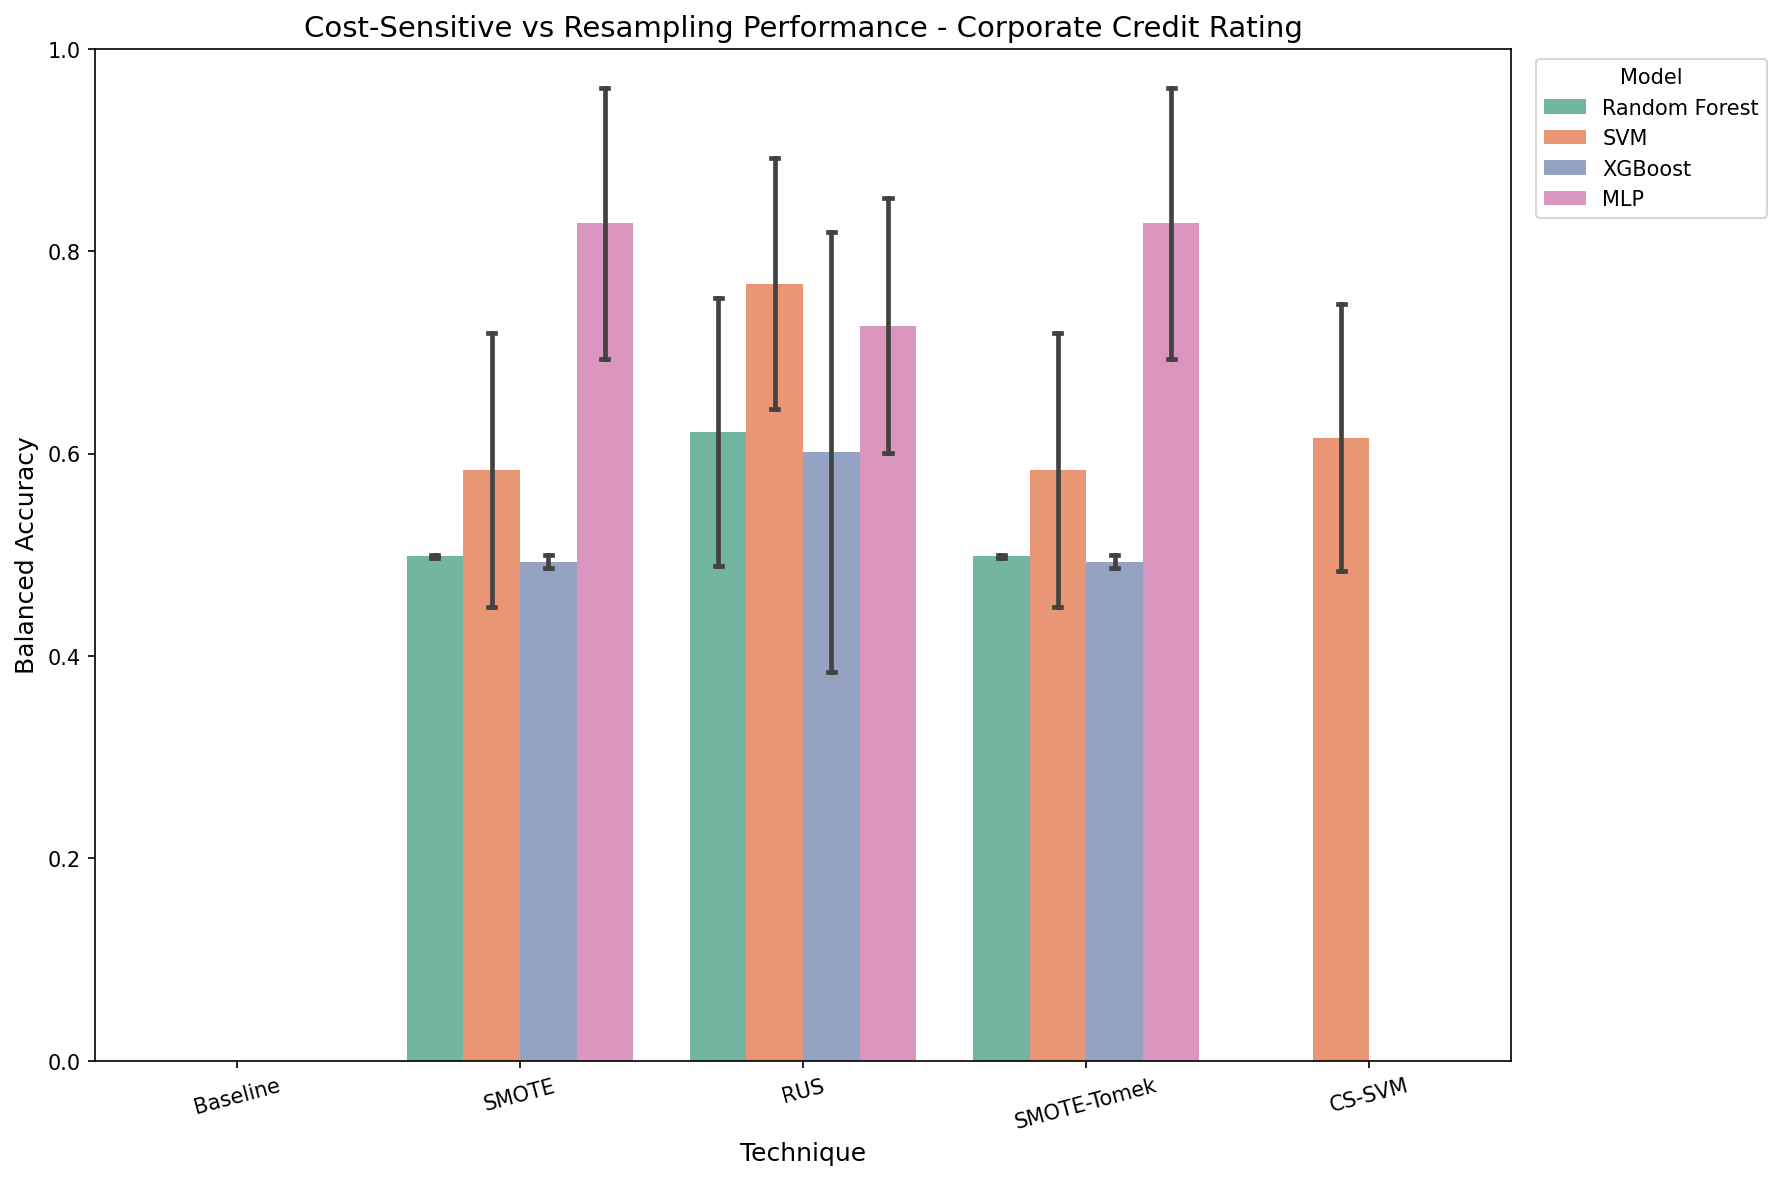
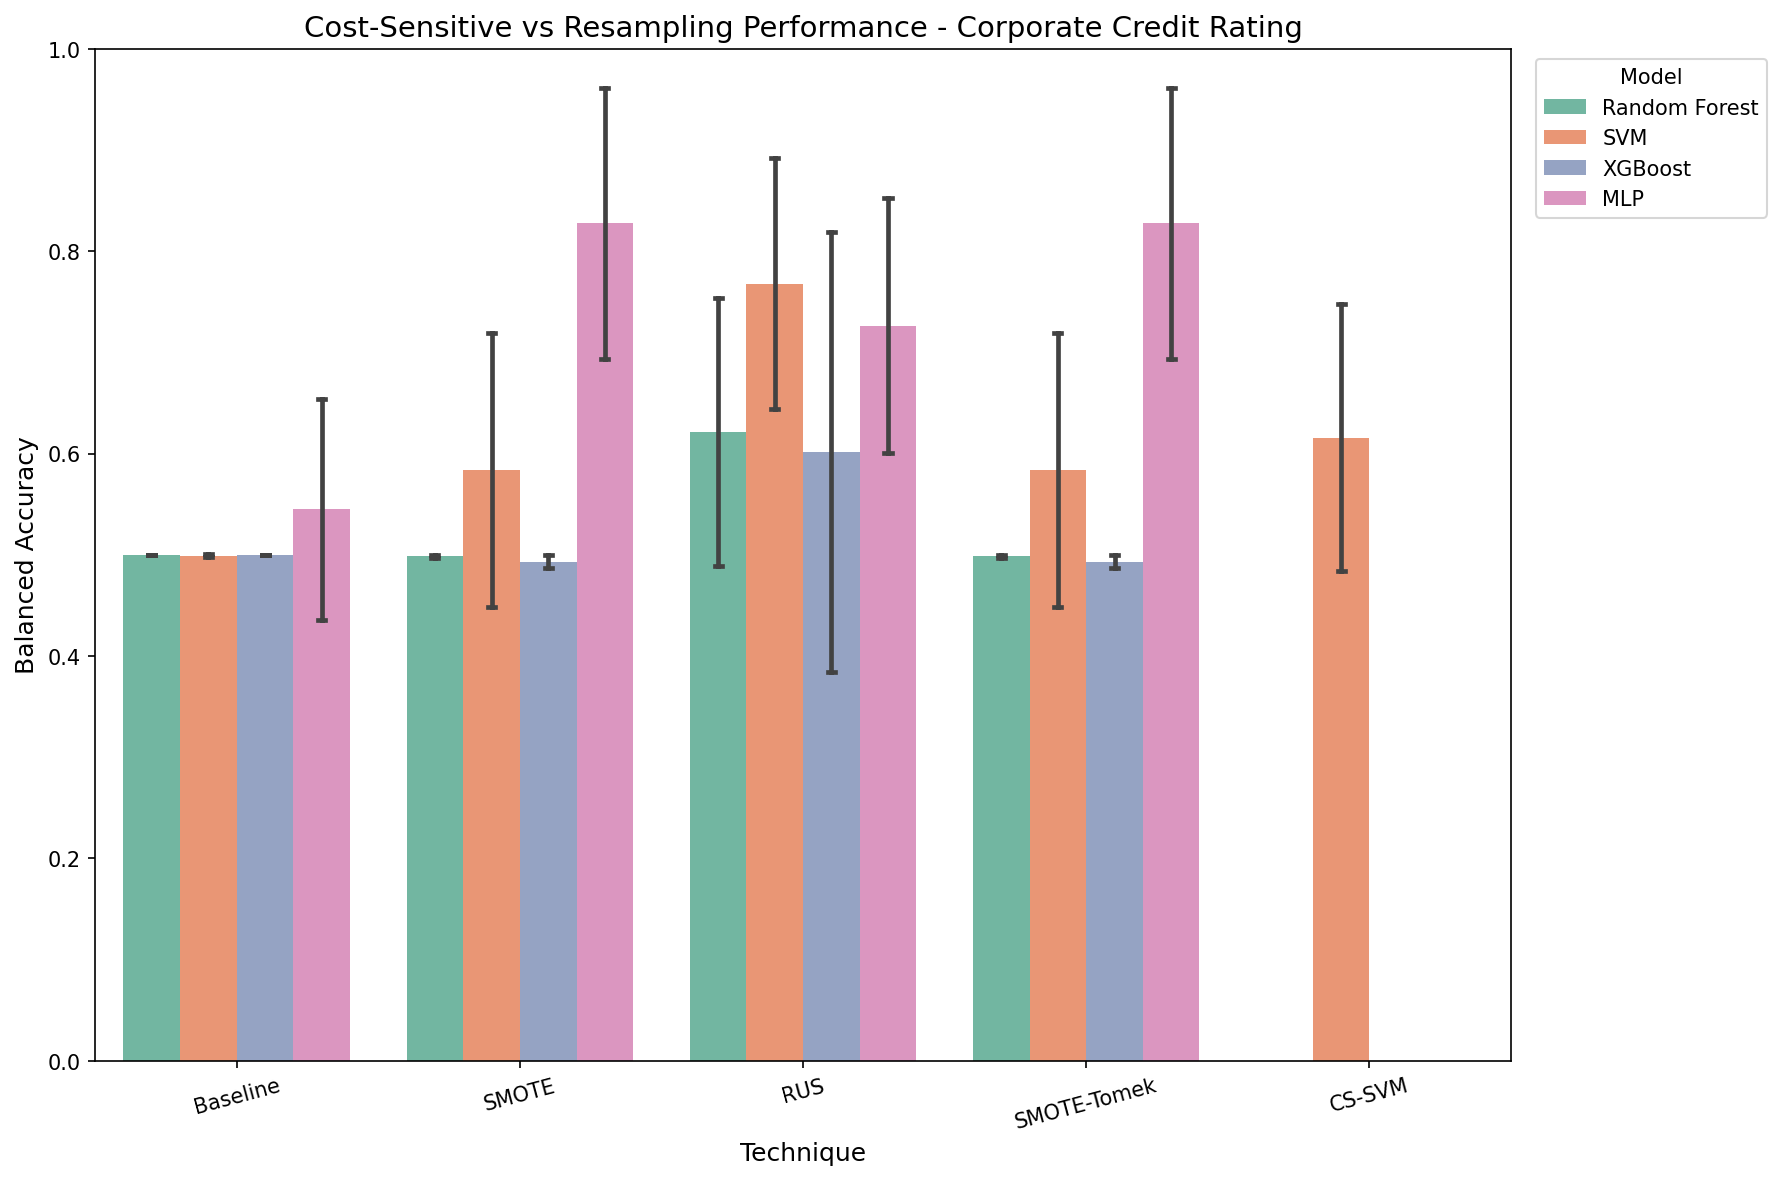
incluir barras para acurácia dos modelos linha de base

Changed region(s): [[0.0617, 0.4271, 0.216, 0.9153], [0.1543, 0.3356, 0.1852, 0.3661]]

diff --git a/experimentos/reports/pt_BR/corporate_credit_rating/summary_table.tex b/experimentos/reports/pt_BR/corporate_credit_rating/summary_table.tex
@@ -12,12 +12,12 @@ XGBoost & RUS & 0.6013 (0.2175) & 0.4355 (0.4041) & 0.0167 (0.0166) & 0.0086 (0.
 SVM & SMOTE & 0.5839 (0.1350) & 0.2775 (0.3801) & 0.0413 (0.0669) & 0.0237 (0.0394) & 0.2000 (0.2739) & 0.9677 (0.0161) \\
 SVM & SMOTE-Tomek & 0.5839 (0.1350) & 0.2775 (0.3801) & 0.0413 (0.0669) & 0.0237 (0.0394) & 0.2000 (0.2739) & 0.9677 (0.0161) \\
 MLP & Linha de Base & 0.5449 (0.1091) & 0.1400 (0.3131) & 0.0267 (0.0596) & 0.0154 (0.0344) & 0.1000 (0.2236) & 0.9898 (0.0055) \\
-Random Forest & Linha de Base & 0.5000 (0.0000) & 0.0000 (0.0000) & 0.0000 (0.0000) & 0.0000 (0.0000) & 0.0000 (0.0000) & 1.0000 (0.0000) \\
 XGBoost & Linha de Base & 0.5000 (0.0000) & 0.0000 (0.0000) & 0.0000 (0.0000) & 0.0000 (0.0000) & 0.0000 (0.0000) & 1.0000 (0.0000) \\
+Random Forest & Linha de Base & 0.5000 (0.0000) & 0.0000 (0.0000) & 0.0000 (0.0000) & 0.0000 (0.0000) & 0.0000 (0.0000) & 1.0000 (0.0000) \\
 SVM & Linha de Base & 0.4990 (0.0015) & 0.0000 (0.0000) & 0.0000 (0.0000) & 0.0000 (0.0000) & 0.0000 (0.0000) & 0.9980 (0.0029) \\
-Random Forest & SMOTE-Tomek & 0.4985 (0.0014) & 0.0000 (0.0000) & 0.0000 (0.0000) & 0.0000 (0.0000) & 0.0000 (0.0000) & 0.9970 (0.0027) \\
 Random Forest & SMOTE & 0.4985 (0.0014) & 0.0000 (0.0000) & 0.0000 (0.0000) & 0.0000 (0.0000) & 0.0000 (0.0000) & 0.9970 (0.0027) \\
-XGBoost & SMOTE-Tomek & 0.4934 (0.0065) & 0.0000 (0.0000) & 0.0000 (0.0000) & 0.0000 (0.0000) & 0.0000 (0.0000) & 0.9868 (0.0129) \\
+Random Forest & SMOTE-Tomek & 0.4985 (0.0014) & 0.0000 (0.0000) & 0.0000 (0.0000) & 0.0000 (0.0000) & 0.0000 (0.0000) & 0.9970 (0.0027) \\
 XGBoost & SMOTE & 0.4934 (0.0065) & 0.0000 (0.0000) & 0.0000 (0.0000) & 0.0000 (0.0000) & 0.0000 (0.0000) & 0.9868 (0.0129) \\
+XGBoost & SMOTE-Tomek & 0.4934 (0.0065) & 0.0000 (0.0000) & 0.0000 (0.0000) & 0.0000 (0.0000) & 0.0000 (0.0000) & 0.9868 (0.0129) \\
 \bottomrule
 \end{tabular}

diff --git a/experimentos/reports/en_US/corporate_credit_rating/summary_table.tex b/experimentos/reports/en_US/corporate_credit_rating/summary_table.tex
@@ -9,8 +9,8 @@ MLP & RUS & 0.7263 (0.1258) & 0.7090 (0.1284) & 0.0211 (0.0115) & 0.0108 (0.0059
 Random Forest & RUS & 0.6217 (0.1323) & 0.4104 (0.3747) & 0.0317 (0.0327) & 0.0168 (0.0176) & 0.3000 (0.2739) & 0.9433 (0.0261) \\
 SVM & CS-SVM & 0.6156 (0.1318) & 0.4071 (0.3718) & 0.0305 (0.0371) & 0.0163 (0.0204) & 0.3000 (0.2739) & 0.9311 (0.0467) \\
 XGBoost & RUS & 0.6013 (0.2175) & 0.4355 (0.4041) & 0.0167 (0.0166) & 0.0086 (0.0086) & 0.4000 (0.4183) & 0.8026 (0.1276) \\
-SVM & SMOTE & 0.5839 (0.1350) & 0.2775 (0.3801) & 0.0413 (0.0669) & 0.0237 (0.0394) & 0.2000 (0.2739) & 0.9677 (0.0161) \\
 SVM & SMOTE-Tomek & 0.5839 (0.1350) & 0.2775 (0.3801) & 0.0413 (0.0669) & 0.0237 (0.0394) & 0.2000 (0.2739) & 0.9677 (0.0161) \\
+SVM & SMOTE & 0.5839 (0.1350) & 0.2775 (0.3801) & 0.0413 (0.0669) & 0.0237 (0.0394) & 0.2000 (0.2739) & 0.9677 (0.0161) \\
 MLP & Baseline & 0.5449 (0.1091) & 0.1400 (0.3131) & 0.0267 (0.0596) & 0.0154 (0.0344) & 0.1000 (0.2236) & 0.9898 (0.0055) \\
 Random Forest & Baseline & 0.5000 (0.0000) & 0.0000 (0.0000) & 0.0000 (0.0000) & 0.0000 (0.0000) & 0.0000 (0.0000) & 1.0000 (0.0000) \\
 XGBoost & Baseline & 0.5000 (0.0000) & 0.0000 (0.0000) & 0.0000 (0.0000) & 0.0000 (0.0000) & 0.0000 (0.0000) & 1.0000 (0.0000) \\

diff --git a/experimentos/experiments/pipelines/analysis/tasks/generation.py b/experimentos/experiments/pipelines/analysis/tasks/generation.py
@@ -454,6 +454,7 @@ def create_imbalance_impact_task(metric: Metric = Metric.BALANCED_ACCURACY) -> A
 # Cost-sensitive techniques for comparison analysis
 _COST_SENSITIVE_TECHNIQUES = {Technique.CS_SVM}
 _RESAMPLING_TECHNIQUES = {
+    Technique.BASELINE,
     Technique.SMOTE,
     Technique.RANDOM_UNDER_SAMPLING,
     Technique.SMOTE_TOMEK,
@@ -467,8 +468,8 @@ def generate_cs_vs_resampling_plot(
     """Generate a bar plot comparing cost-sensitive vs resampling techniques.
 
     Creates a grouped bar chart showing balanced accuracy performance for
-    cost-sensitive methods (CS-SVM) vs resampling methods
-    (SMOTE, RUS, SMOTE-Tomek).
+    cost-sensitive methods (CS-SVM) vs baseline/resampling methods
+    (Baseline, SMOTE, RUS, SMOTE-Tomek).
 
     Args:
         state: The current state containing per_seed_metrics as a LazyFrame.

diff --git a/experimentos/experiments/cli/analysis.py b/experimentos/experiments/cli/analysis.py
@@ -281,7 +281,8 @@ def generate_cs_vs_resampling_plot(
     """Generate a cost-sensitive vs resampling comparison plot.
 
     Creates a grouped bar chart comparing balanced accuracy for cost-sensitive
-    methods (MetaCost, CS-SVM) vs resampling methods (SMOTE, RUS, SMOTE-Tomek).
+    methods (CS-SVM) vs baseline/resampling methods
+    (Baseline, SMOTE, RUS, SMOTE-Tomek).
     """
     analyzer = container.predictions_analyzer()
 
